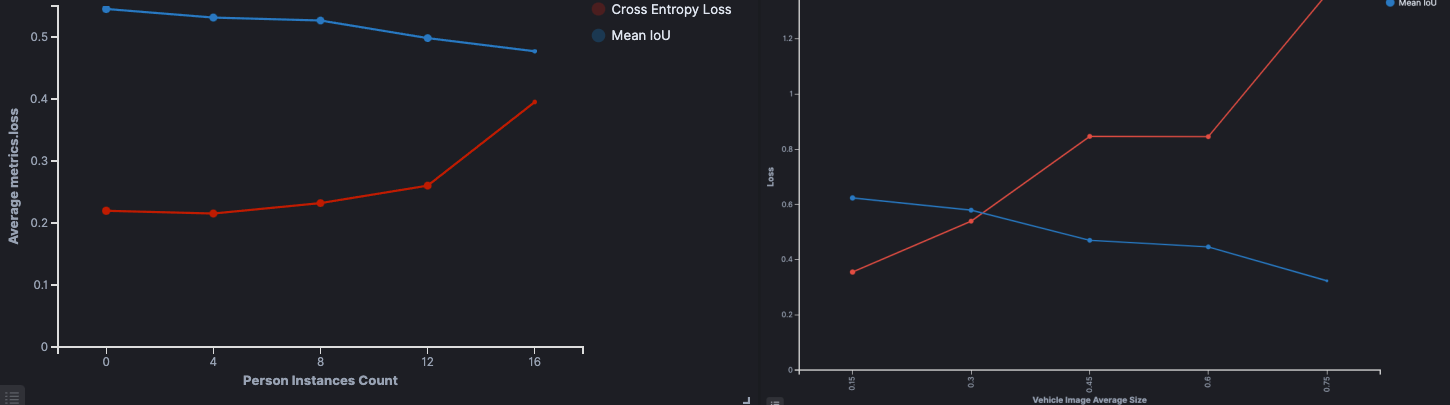
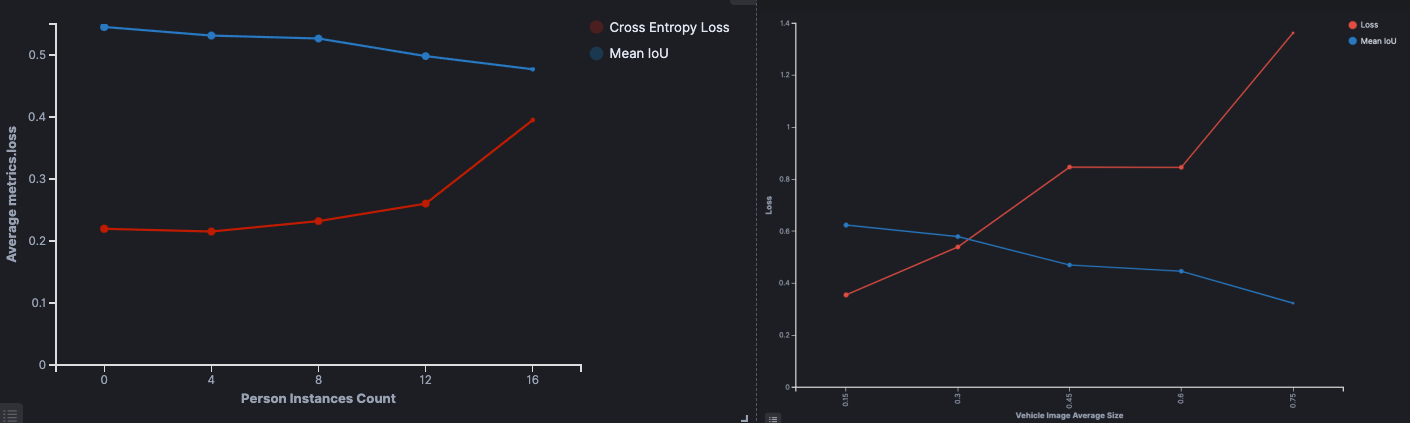
figure crop

diff --git a/examples/coco/README.md b/examples/coco/README.md
@@ -150,7 +150,7 @@ With the help of the `Sample Analysis` feature, we can find some ambiguous label
 
 We can plot using Tensorleap the metadata we extract to identify trends and factors that are correlated to the performance. 
 
-<img height="350" src="./coco/images/metadata.png" width="1450"/> 
+<img height="350" src="./coco/images/metadata.png" width="1410"/> 
 From the figure from left, we can see that when the number of person instances per image increases the Cross-Entropy Loss
 increases and the mean IoU decreases. The models's predictions are less accurate when the image is denser with objects.
 
